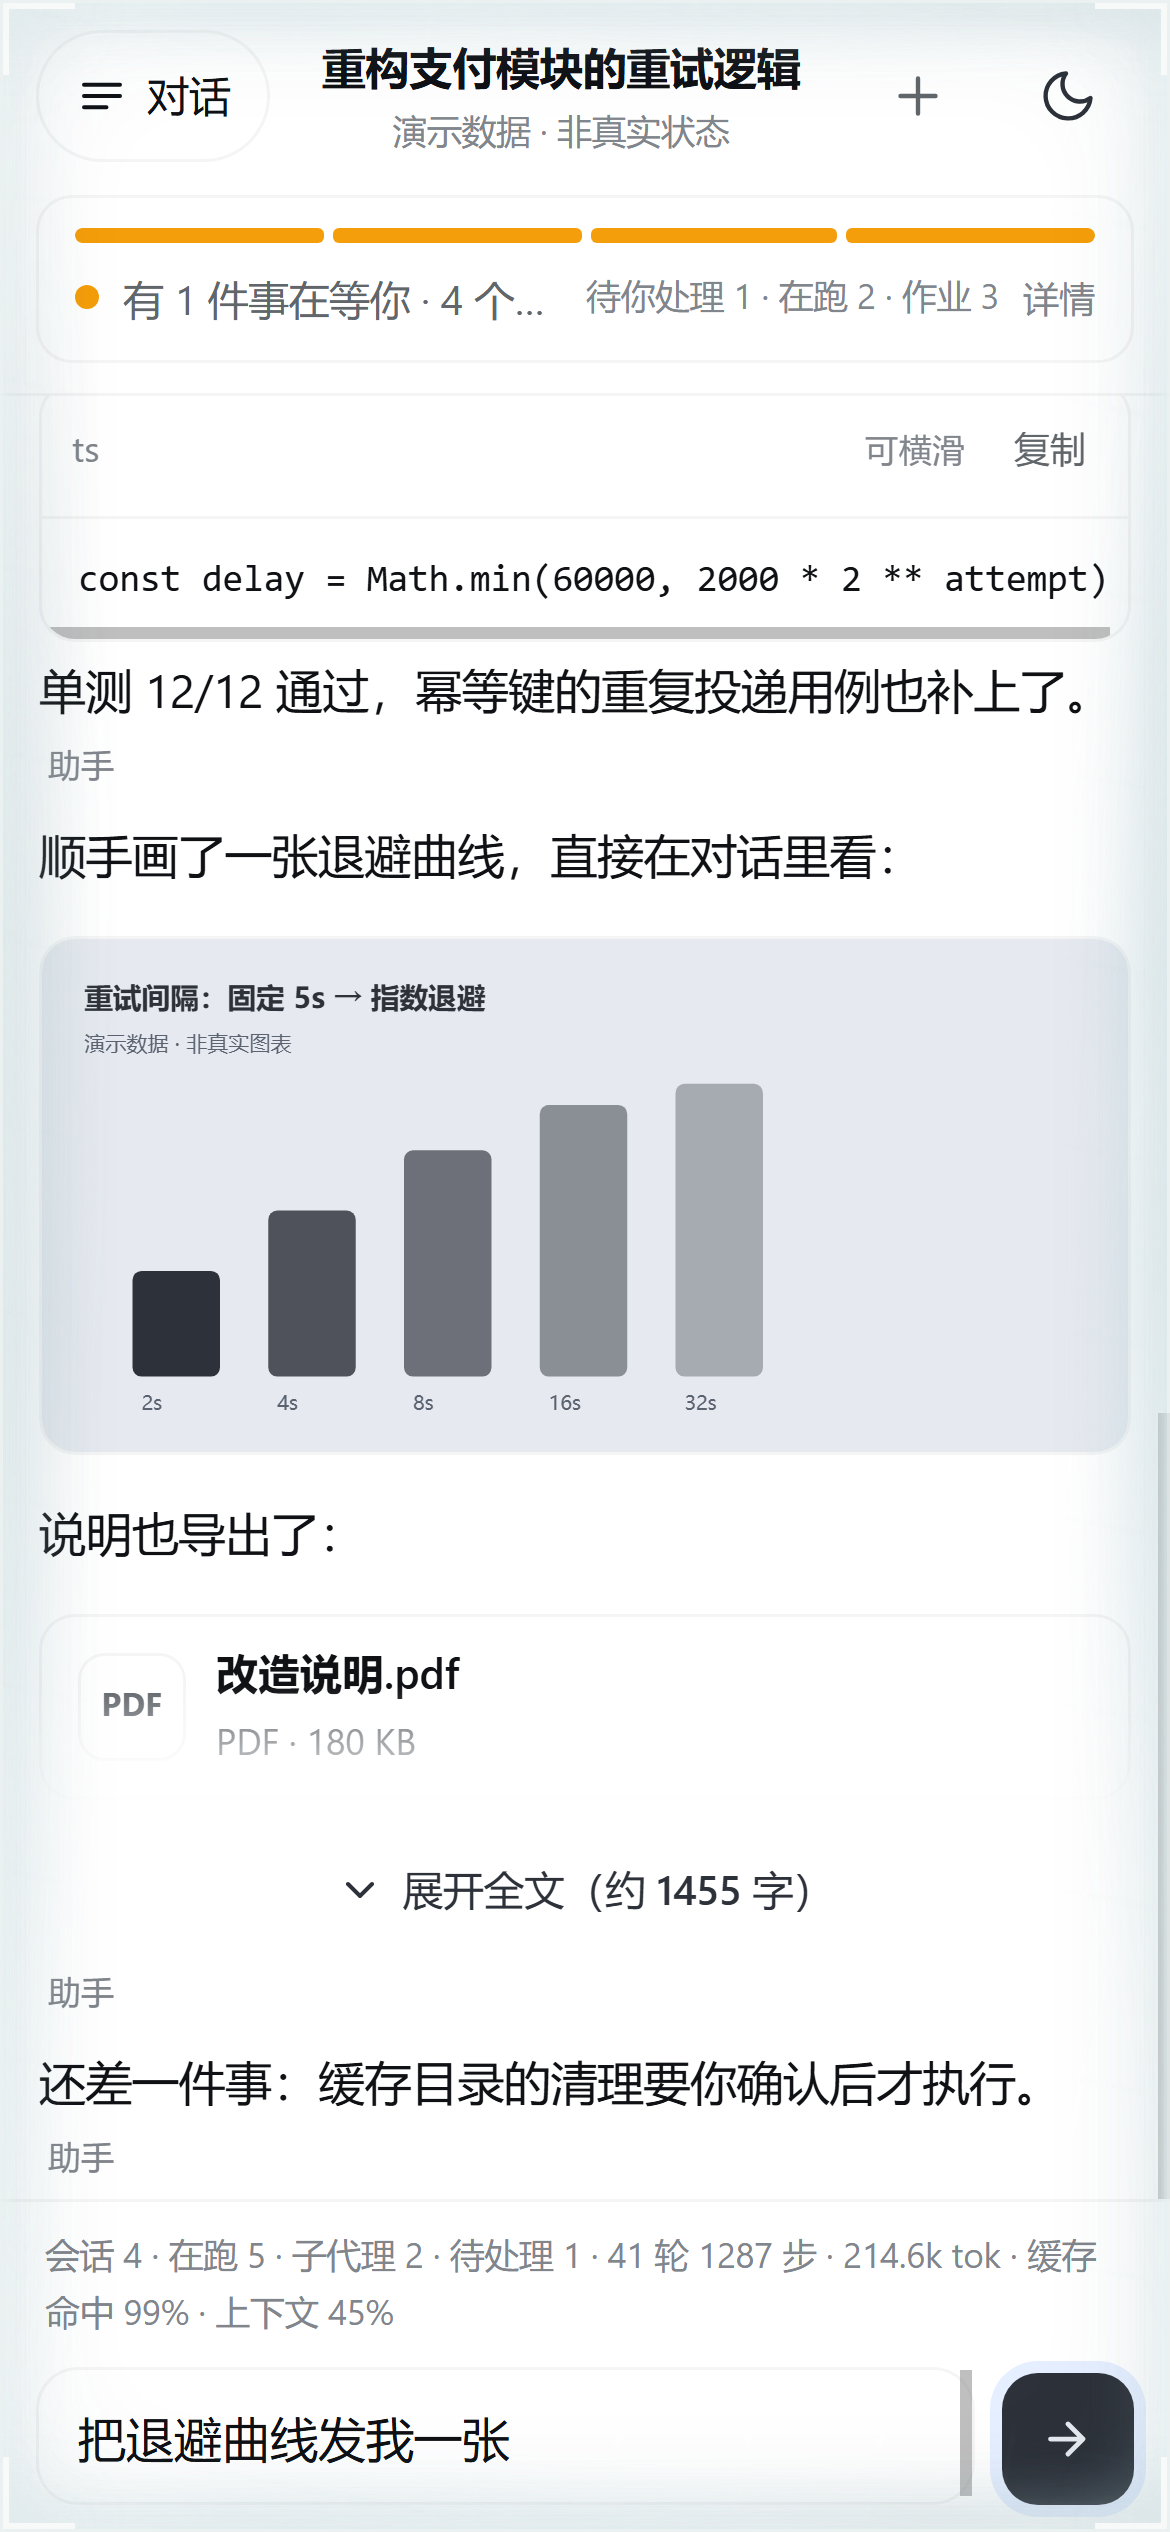
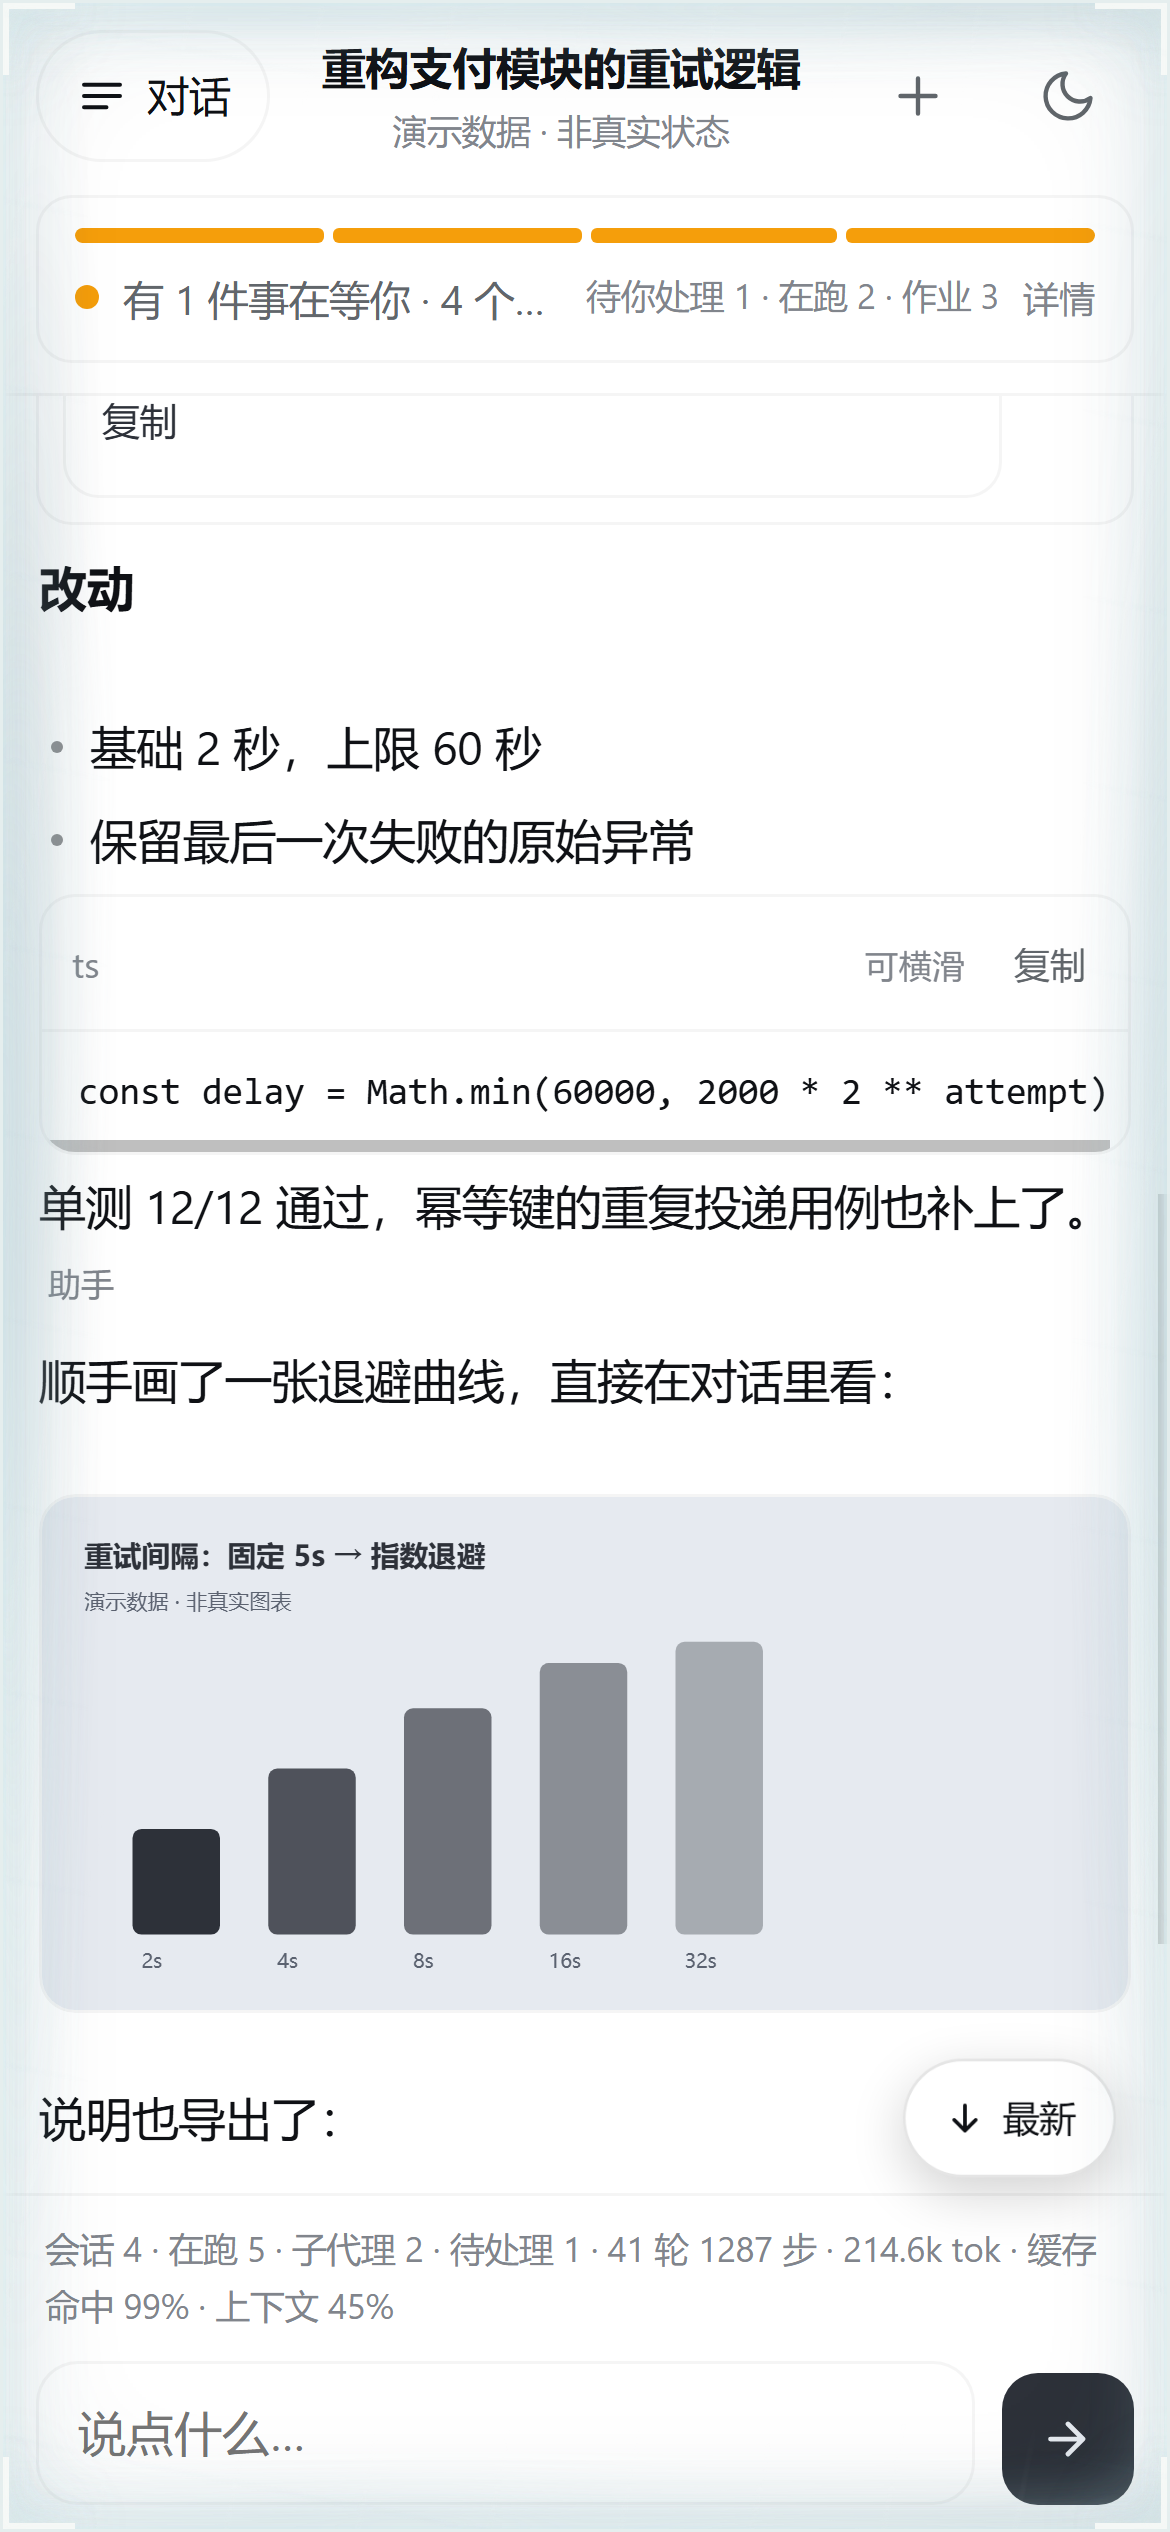
feat(page): 正文排版重排 + 折叠渐隐不再切字
反馈是长回答"密密麻麻的字看着晕"。查下来是四件事叠在一起：

- .md-p 自己 margin:0，段与段之间只剩 .md-blank 的 8px；
- 标题 margin:3px 0 2px，紧贴在正文上，层级看不出来；
- 列表项 margin:1px 0，多项挤成一片；
- 行高 1.6 —— 中文没有西文那种字升部/降部留白，1.6 会读成一整块。

改成：行高 1.72、空行 16px、标题 16/7 且字号各加一档、列表项 5px，
并补上 line-break:strict（别在中文标点前后断行）。顺手把以前原样显示的
"> 引用" 和 "---" 分隔线渲染成真的样式 —— 它们也是"密密麻麻"的一部分。

折叠气泡另加 20px 下内边距：那条渐隐原本横切过一行字（截图里看得见）。

渲染后实测（390x844，真页面量 getComputedStyle 与 rect）：
行高 26.66px / 字号 15.5px = 1.72、空行 16px、列表项 5px、每行约 24 个中文字；
折叠处最后一行文字到渐隐余量 26px（不再切字）。

排版尺度写进契约测试（128 项全绿）：这组数字是设计决定，改小之前得先看见
那条断言为什么存在。

diff --git a/docs/demo.html b/docs/demo.html
@@ -376,7 +376,7 @@ footer{
 
 /* 1. 超长回复：折叠 + 底部渐隐。折叠与否按字符数预判，不等布局算完再改，
       否则会先闪一下全文再收起来。 */
-.bub.fold{max-height:22rem;overflow:hidden;
+.bub.fold{max-height:22rem;overflow:hidden;padding-bottom:20px;
   -webkit-mask-image:linear-gradient(180deg,#000 calc(100% - 44px),transparent);
   mask-image:linear-gradient(180deg,#000 calc(100% - 44px),transparent)}
 .bub.fold.open{max-height:none;-webkit-mask-image:none;mask-image:none}
@@ -462,18 +462,30 @@ html,body{overflow-x:clip}
 .toolgroup .gb .tool{margin-top:6px}
 .toolgroup .gb[hidden]{display:none}
 
-/* 8. 轻量 markdown：标题 / 粗体 / 行内代码 / 列表 / 空行留白。
+/* 8. 轻量 markdown：标题 / 粗体 / 行内代码 / 列表 / 引用 / 分隔线 / 空行留白。
       做这个是因为模型输出里 ## 和 ** 到处都是 —— 不渲染的话，手机上看到的
       就是一堆符号，对"点进来想看懂发生了什么"的人是纯粹的噪音。
-      只认这几种，理由见 JS 里 blocksInto 的注释。 */
-.md-h{font-weight:600;font-size:15px;line-height:1.45;margin:3px 0 2px;text-wrap:balance}
-.md-h[data-lv='1']{font-size:16.5px}
-.md-h[data-lv='2']{font-size:15.5px}
-.md-li{position:relative;padding-left:14px;margin:1px 0;line-height:1.6}
-.md-li::before{content:'';position:absolute;left:3px;top:.68em;width:4px;height:4px;
+      只认这几种，理由见 JS 里 blocksInto 的注释。
+
+      ⚠ 以下尺度是按**"读起来不晕"**定的，不是按"一屏塞多少字"定的（2026-10-09 重排）：
+        · 行高 1.72 —— 中文没有西文那种字升部/降部留白，1.6 会读成一整块；
+        · 段间 16px —— 原来只有 8px，而 .md-p 自己 margin:0，几段连起来就是一堵墙；
+        · 标题上 16 / 下 7 —— 原来 3/2，标题贴在正文上，层次看不出来；
+        · 列表项 5px —— 原来 1px，多行列表挤成一片；
+        · line-break:strict —— 别在中文标点前后断行。
+      这些数字改小很容易；改小之前先想清楚为什么在这儿。 */
+.md-h{font-weight:600;font-size:15.5px;line-height:1.4;margin:16px 0 7px;
+  text-wrap:balance;line-break:strict}
+.md-h[data-lv='1']{font-size:17px}
+.md-h[data-lv='2']{font-size:16px}
+.md-li{position:relative;padding-left:17px;margin:5px 0;line-height:1.7;line-break:strict}
+.md-li::before{content:'';position:absolute;left:4px;top:.72em;width:4px;height:4px;
   border-radius:50%;background:currentColor;opacity:.5}
-.md-p{margin:0;line-height:1.6;text-wrap:pretty}
-.md-blank{height:8px}
+.md-p{margin:0 0 3px;line-height:1.72;text-wrap:pretty;line-break:strict}
+.md-blank{height:16px}
+.md-bq{margin:9px 0;padding:1px 0 1px 11px;border-left:2px solid var(--line2);
+  color:var(--dim);line-height:1.7;line-break:strict}
+.md-hr{height:1px;margin:16px 0;background:var(--line)}
 .bub strong{font-weight:600}
 .bub code{font-family:ui-monospace,SFMono-Regular,Menlo,Consolas,monospace;
   font-size:.88em;padding:1px 4px;border-radius:4px;
@@ -1275,6 +1287,16 @@ function blocksInto(el, text){
     if (li) {
       var it = document.createElement('div'); it.className = 'md-li'
       el.appendChild(inlineInto(it, li[1])); continue
+    }
+    // 引用与分隔线：以前它们会原样显示成 "> 某句话" / "---"，是"密密麻麻"的一部分。
+    var bq = /^>\s?(.*)$/.exec(ln)
+    if (bq) {
+      var qt = document.createElement('div'); qt.className = 'md-bq'
+      el.appendChild(inlineInto(qt, bq[1])); continue
+    }
+    if (/^\s*(?:-{3,}|\*{3,}|_{3,})\s*$/.test(ln)) {
+      var hr = document.createElement('div'); hr.className = 'md-hr'
+      el.appendChild(hr); continue
     }
     var p = document.createElement('div'); p.className = 'md-p'
     el.appendChild(inlineInto(p, ln))
@@ -2350,7 +2372,7 @@ window.fetch = function (u, o) {
   mark()   /* 第一轮只记基线（firstPass 为真时不放动画），但会把未加载的图标记成 .loading */
 })()
 
-var DEMO={"generatedAt":1791534202864,"offline":false,"errors":[],"totals":{"sessions":4,"running":2,"jobs":5,"jobsRunning":3,"subagents":2,"workflows":1,"pending":1},"pending":[{"title":"等待确认：删除 3 个过期缓存目录","detail":"即将对 build/cache 下的过期产物执行清理，需要你先确认。","kind":"approval/request","session":"session-demo-a","at":1791534157864}],"sessions":[{"id":"session-demo-a","title":"重构支付模块的重试逻辑","running":true,"activeJobs":2,"live":true,"origin":"root","depth":0,"preset":"cordis","cwd":"~/projects/payments","updatedAt":1791534199864,"goal":{"phase":"active","roundsStarted":7,"maxGoalRounds":50,"activation":"armed","objective":"把支付回调的重试从固定间隔改成指数退避，并补齐幂等键的边界用例。"}},{"id":"session-demo-b","title":"整理季度报表导出","running":true,"activeJobs":1,"live":true,"origin":"root","depth":0,"preset":"cordis","cwd":"~/projects/reports","updatedAt":1791534184864,"goal":{"phase":"active","roundsStarted":3,"maxGoalRounds":20,"activation":"armed","objective":"导出去年四个季度的报表并核对口径。"}},{"id":"session-demo-c","title":"排查登录态失效问题","running":false,"activeJobs":0,"live":true,"origin":"root","depth":0,"preset":"cordis","cwd":"~/projects/web","updatedAt":1791531802864,"goal":null},{"id":"session-demo-d","title":"更新部署文档","running":false,"activeJobs":0,"live":false,"origin":"subagent","depth":1,"preset":"cordis","cwd":"~/projects/docs","updatedAt":1791525602864,"goal":null}],"jobs":[{"id":"job-1","label":"pnpm test --filter payments","kind":"pwsh","status":"running","owner":"session-demo-a","startedAt":1791533892864,"finishedAt":0},{"id":"job-2","label":"node scripts/build.mjs","kind":"pwsh","status":"running","owner":"session-demo-a","startedAt":1791534107864,"finishedAt":0},{"id":"job-3","label":"node scripts/export-report.mjs --quarter Q3","kind":"pwsh","status":"running","owner":"session-demo-b","startedAt":1791533482864,"finishedAt":0},{"id":"job-4","label":"git log --oneline -50","kind":"pwsh","status":"done","owner":"session-demo-c","startedAt":1791531202864,"finishedAt":1791531204864},{"id":"job-5","label":"node scripts/make-icons.mjs","kind":"pwsh","status":"failed","owner":"session-demo-b","startedAt":1791529002864,"finishedAt":1791529007864}],"subagents":[{"id":"agent-demo-1","label":"核对接口字段","mode":"subagent","activity":"running","depth":1,"parent":"session-demo-a"},{"id":"agent-demo-2","label":"翻译发布说明","mode":"subagent","activity":"idle","depth":1,"parent":"session-demo-b"}],"workflows":[{"id":"wf-demo-1","name":"回归测试与发布检查","phase":"verify","logs":42,"startedAt":1791532402864}]};
+var DEMO={"generatedAt":1791535599090,"offline":false,"errors":[],"totals":{"sessions":4,"running":2,"jobs":5,"jobsRunning":3,"subagents":2,"workflows":1,"pending":1},"pending":[{"title":"等待确认：删除 3 个过期缓存目录","detail":"即将对 build/cache 下的过期产物执行清理，需要你先确认。","kind":"approval/request","session":"session-demo-a","at":1791535554090}],"sessions":[{"id":"session-demo-a","title":"重构支付模块的重试逻辑","running":true,"activeJobs":2,"live":true,"origin":"root","depth":0,"preset":"cordis","cwd":"~/projects/payments","updatedAt":1791535596090,"goal":{"phase":"active","roundsStarted":7,"maxGoalRounds":50,"activation":"armed","objective":"把支付回调的重试从固定间隔改成指数退避，并补齐幂等键的边界用例。"}},{"id":"session-demo-b","title":"整理季度报表导出","running":true,"activeJobs":1,"live":true,"origin":"root","depth":0,"preset":"cordis","cwd":"~/projects/reports","updatedAt":1791535581090,"goal":{"phase":"active","roundsStarted":3,"maxGoalRounds":20,"activation":"armed","objective":"导出去年四个季度的报表并核对口径。"}},{"id":"session-demo-c","title":"排查登录态失效问题","running":false,"activeJobs":0,"live":true,"origin":"root","depth":0,"preset":"cordis","cwd":"~/projects/web","updatedAt":1791533199090,"goal":null},{"id":"session-demo-d","title":"更新部署文档","running":false,"activeJobs":0,"live":false,"origin":"subagent","depth":1,"preset":"cordis","cwd":"~/projects/docs","updatedAt":1791526999090,"goal":null}],"jobs":[{"id":"job-1","label":"pnpm test --filter payments","kind":"pwsh","status":"running","owner":"session-demo-a","startedAt":1791535289090,"finishedAt":0},{"id":"job-2","label":"node scripts/build.mjs","kind":"pwsh","status":"running","owner":"session-demo-a","startedAt":1791535504090,"finishedAt":0},{"id":"job-3","label":"node scripts/export-report.mjs --quarter Q3","kind":"pwsh","status":"running","owner":"session-demo-b","startedAt":1791534879090,"finishedAt":0},{"id":"job-4","label":"git log --oneline -50","kind":"pwsh","status":"done","owner":"session-demo-c","startedAt":1791532599090,"finishedAt":1791532601090},{"id":"job-5","label":"node scripts/make-icons.mjs","kind":"pwsh","status":"failed","owner":"session-demo-b","startedAt":1791530399090,"finishedAt":1791530404090}],"subagents":[{"id":"agent-demo-1","label":"核对接口字段","mode":"subagent","activity":"running","depth":1,"parent":"session-demo-a"},{"id":"agent-demo-2","label":"翻译发布说明","mode":"subagent","activity":"idle","depth":1,"parent":"session-demo-b"}],"workflows":[{"id":"wf-demo-1","name":"回归测试与发布检查","phase":"verify","logs":42,"startedAt":1791533799090}]};
[1 lines of base64/hex data omitted]
 // 演示页：不轮询、不联网、任何会话都能点开看同一份示例对话。
 // tick / ensureSession / startPolling / openStream 都是函数声明（会提升），覆盖安全。

diff --git a/lib/page.html b/lib/page.html
@@ -376,7 +376,7 @@ footer{
 
 /* 1. 超长回复：折叠 + 底部渐隐。折叠与否按字符数预判，不等布局算完再改，
       否则会先闪一下全文再收起来。 */
-.bub.fold{max-height:22rem;overflow:hidden;
+.bub.fold{max-height:22rem;overflow:hidden;padding-bottom:20px;
   -webkit-mask-image:linear-gradient(180deg,#000 calc(100% - 44px),transparent);
   mask-image:linear-gradient(180deg,#000 calc(100% - 44px),transparent)}
 .bub.fold.open{max-height:none;-webkit-mask-image:none;mask-image:none}
@@ -462,18 +462,30 @@ html,body{overflow-x:clip}
 .toolgroup .gb .tool{margin-top:6px}
 .toolgroup .gb[hidden]{display:none}
 
-/* 8. 轻量 markdown：标题 / 粗体 / 行内代码 / 列表 / 空行留白。
+/* 8. 轻量 markdown：标题 / 粗体 / 行内代码 / 列表 / 引用 / 分隔线 / 空行留白。
       做这个是因为模型输出里 ## 和 ** 到处都是 —— 不渲染的话，手机上看到的
       就是一堆符号，对"点进来想看懂发生了什么"的人是纯粹的噪音。
-      只认这几种，理由见 JS 里 blocksInto 的注释。 */
-.md-h{font-weight:600;font-size:15px;line-height:1.45;margin:3px 0 2px;text-wrap:balance}
-.md-h[data-lv='1']{font-size:16.5px}
-.md-h[data-lv='2']{font-size:15.5px}
-.md-li{position:relative;padding-left:14px;margin:1px 0;line-height:1.6}
-.md-li::before{content:'';position:absolute;left:3px;top:.68em;width:4px;height:4px;
+      只认这几种，理由见 JS 里 blocksInto 的注释。
+
+      ⚠ 以下尺度是按**"读起来不晕"**定的，不是按"一屏塞多少字"定的（2026-10-09 重排）：
+        · 行高 1.72 —— 中文没有西文那种字升部/降部留白，1.6 会读成一整块；
+        · 段间 16px —— 原来只有 8px，而 .md-p 自己 margin:0，几段连起来就是一堵墙；
+        · 标题上 16 / 下 7 —— 原来 3/2，标题贴在正文上，层次看不出来；
+        · 列表项 5px —— 原来 1px，多行列表挤成一片；
+        · line-break:strict —— 别在中文标点前后断行。
+      这些数字改小很容易；改小之前先想清楚为什么在这儿。 */
+.md-h{font-weight:600;font-size:15.5px;line-height:1.4;margin:16px 0 7px;
+  text-wrap:balance;line-break:strict}
+.md-h[data-lv='1']{font-size:17px}
+.md-h[data-lv='2']{font-size:16px}
+.md-li{position:relative;padding-left:17px;margin:5px 0;line-height:1.7;line-break:strict}
+.md-li::before{content:'';position:absolute;left:4px;top:.72em;width:4px;height:4px;
   border-radius:50%;background:currentColor;opacity:.5}
-.md-p{margin:0;line-height:1.6;text-wrap:pretty}
-.md-blank{height:8px}
+.md-p{margin:0 0 3px;line-height:1.72;text-wrap:pretty;line-break:strict}
+.md-blank{height:16px}
+.md-bq{margin:9px 0;padding:1px 0 1px 11px;border-left:2px solid var(--line2);
+  color:var(--dim);line-height:1.7;line-break:strict}
+.md-hr{height:1px;margin:16px 0;background:var(--line)}
 .bub strong{font-weight:600}
 .bub code{font-family:ui-monospace,SFMono-Regular,Menlo,Consolas,monospace;
   font-size:.88em;padding:1px 4px;border-radius:4px;
@@ -1275,6 +1287,16 @@ function blocksInto(el, text){
     if (li) {
       var it = document.createElement('div'); it.className = 'md-li'
       el.appendChild(inlineInto(it, li[1])); continue
+    }
+    // 引用与分隔线：以前它们会原样显示成 "> 某句话" / "---"，是"密密麻麻"的一部分。
+    var bq = /^>\s?(.*)$/.exec(ln)
+    if (bq) {
+      var qt = document.createElement('div'); qt.className = 'md-bq'
+      el.appendChild(inlineInto(qt, bq[1])); continue
+    }
+    if (/^\s*(?:-{3,}|\*{3,}|_{3,})\s*$/.test(ln)) {
+      var hr = document.createElement('div'); hr.className = 'md-hr'
+      el.appendChild(hr); continue
     }
     var p = document.createElement('div'); p.className = 'md-p'
     el.appendChild(inlineInto(p, ln))
